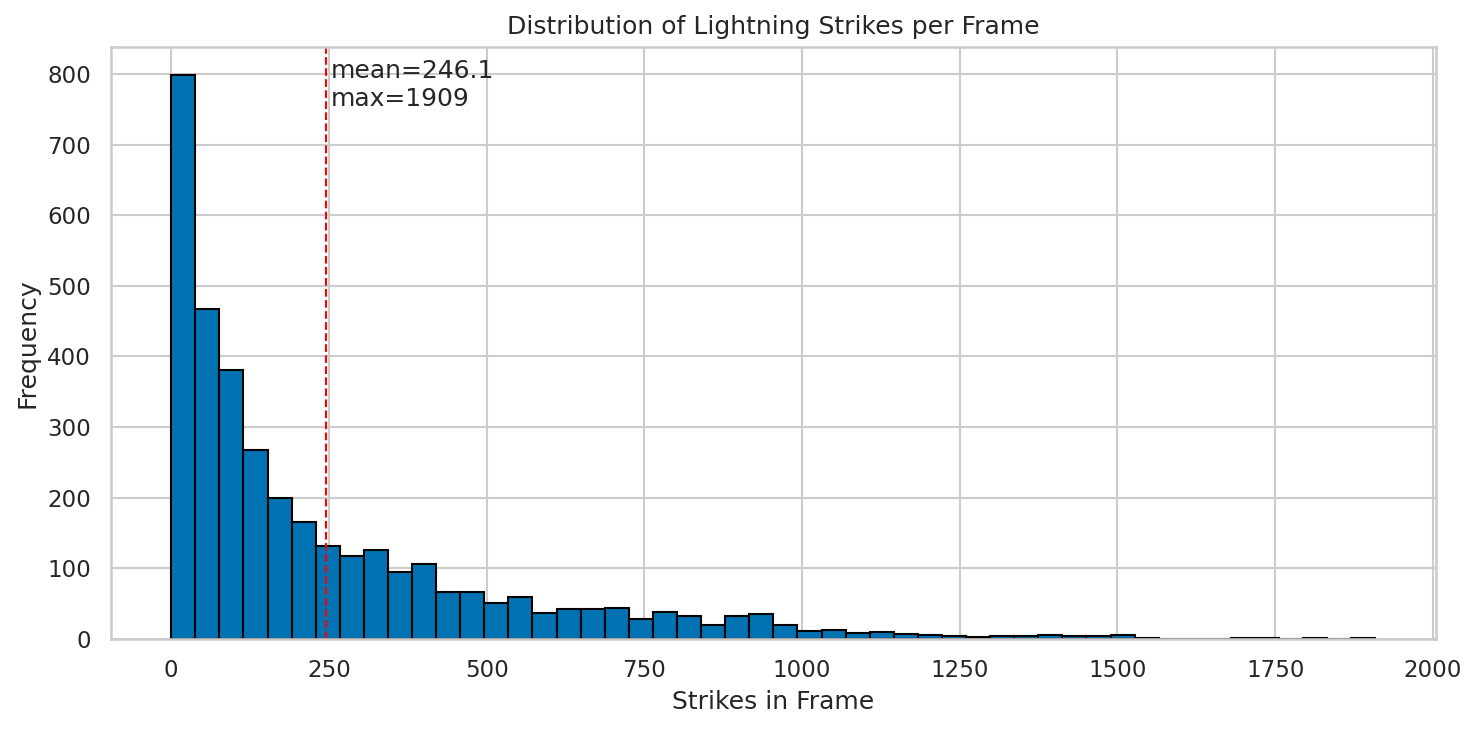
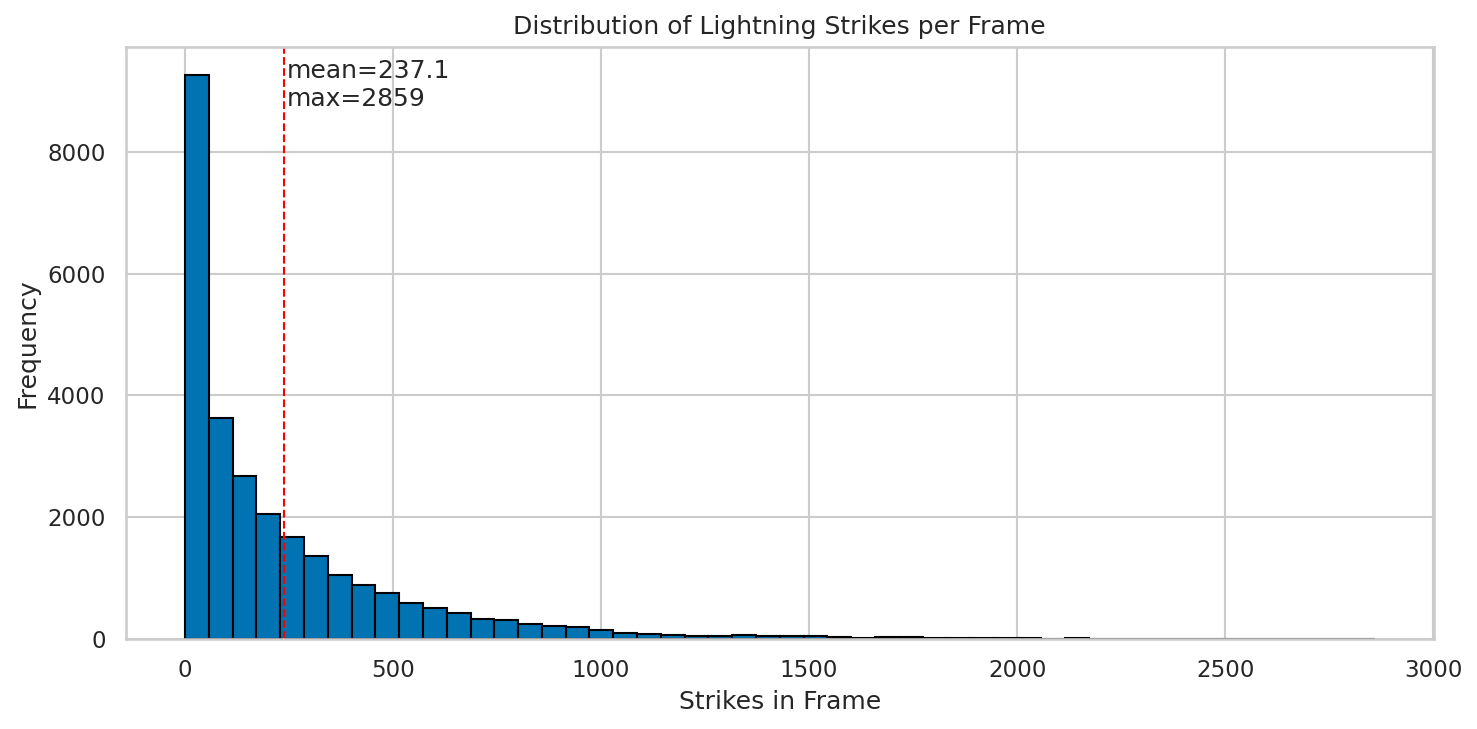
update training outputs

diff --git a/README.md b/README.md
@@ -32,6 +32,15 @@ pixi run preprocess-hdf5
 
 ```bash
 # preprocess train dataset
+pixi run preprocess-hdf5 \
+  --input-h5 data/train.h5 \
+  --output-h5 data/preprocess_train.h5 \
+  --summary-csv data/preprocess_summary_train.csv \
+  --figures-dir figures/preprocess \
+  --direction down \
+  --max-events -1
+
+# train model
 pixi run train-model \
     --data-path data/preprocessed_train.h5 \
     --model unet \
